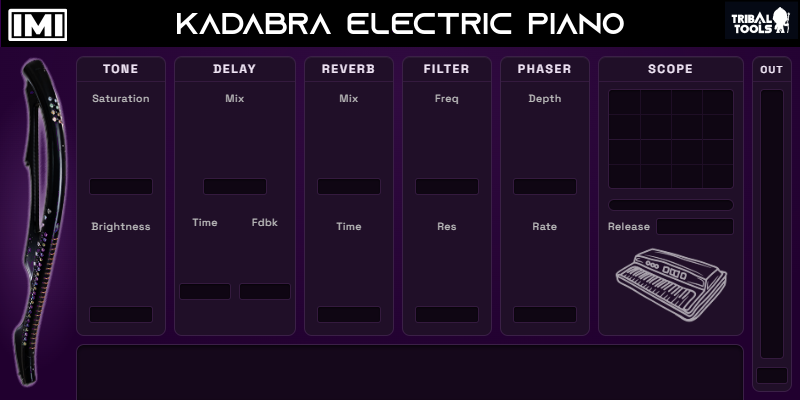
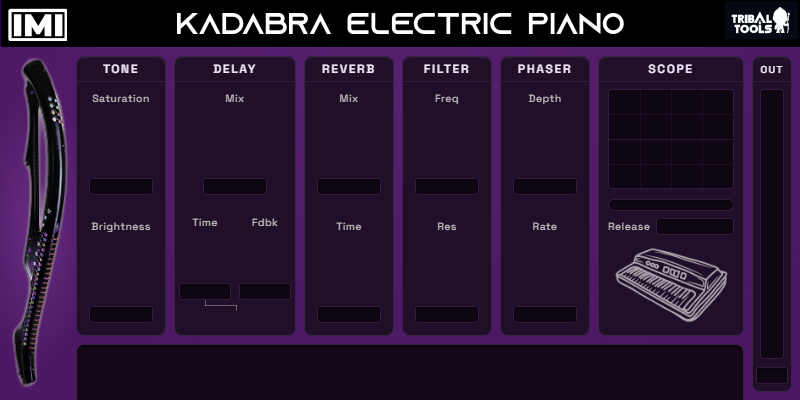
GUI v4: revised base picture, half-width Sync toggle; startup defaults
- New base picture; Delay Sync toggle is now the 53x19 strip at 209,310
  (old 106x19 strips removed)
- DefaultUserPreset = Full Reset so a fresh instance starts at the defaults:
  presets panel closed, Delay Sync on with Time 7, free delay memory 400
- Saved control values aligned series-wide (Release 1 ms, Output Gain -6 dB,
  Delay Feedback 0)

Claude-Session: https://claude.ai/code/session_01SuHFsbACpEgRk3D2d72sew

Changed region(s): [[0.0, 0.12, 1.0, 1.0]]

diff --git a/Scripts/ScriptProcessors/KadabraElectricPiano/Interface.js b/Scripts/ScriptProcessors/KadabraElectricPiano/Interface.js
@@ -197,7 +197,7 @@ const var Delay1          = Synth.getEffect("Delay1");
 // Hidden knobs that persist per-mode delay values across DAW sessions and preset recall.
 // These must exist in the HISE UI editor as hidden sliders:
 //   delayFreeMemory  — min:1,    max:2500, default:400
-//   delaySyncMemory  — min:0,    max:18,   default:8
+//   delaySyncMemory  — min:0,    max:18,   default:7
 const var delayFreeMemory = Content.getComponent("delayFreeMemory");
 const var delaySyncMemory = Content.getComponent("delaySyncMemory");
 
@@ -246,7 +246,7 @@ inline function onDelaySyncModeControl(component, value)
         DelayTimeKnob.set("max", 18);
         DelayTimeKnob.set("middlePosition", 9);
         DelayTimeKnob.set("stepSize", 1);
-        DelayTimeKnob.set("defaultValue", 8);
+        DelayTimeKnob.set("defaultValue", 7);
         DelayTimeKnob.setValue(delaySyncMemory.getValue()); // restore from hidden knob
 
         var audioValue = delaySyncMemory.getValue() + SYNC_OFFSET;
@@ -277,7 +277,7 @@ if (DelaySyncMode.getValue() == 1) // Sync mode
     DelayTimeKnob.set("max", 18);
     DelayTimeKnob.set("middlePosition", 9);
     DelayTimeKnob.set("stepSize", 1);
-    DelayTimeKnob.set("defaultValue", 8);
+    DelayTimeKnob.set("defaultValue", 7);
     DelayTimeKnob.setValue(delaySyncMemory.getValue());
 
     var initAudio = delaySyncMemory.getValue() + SYNC_OFFSET;
